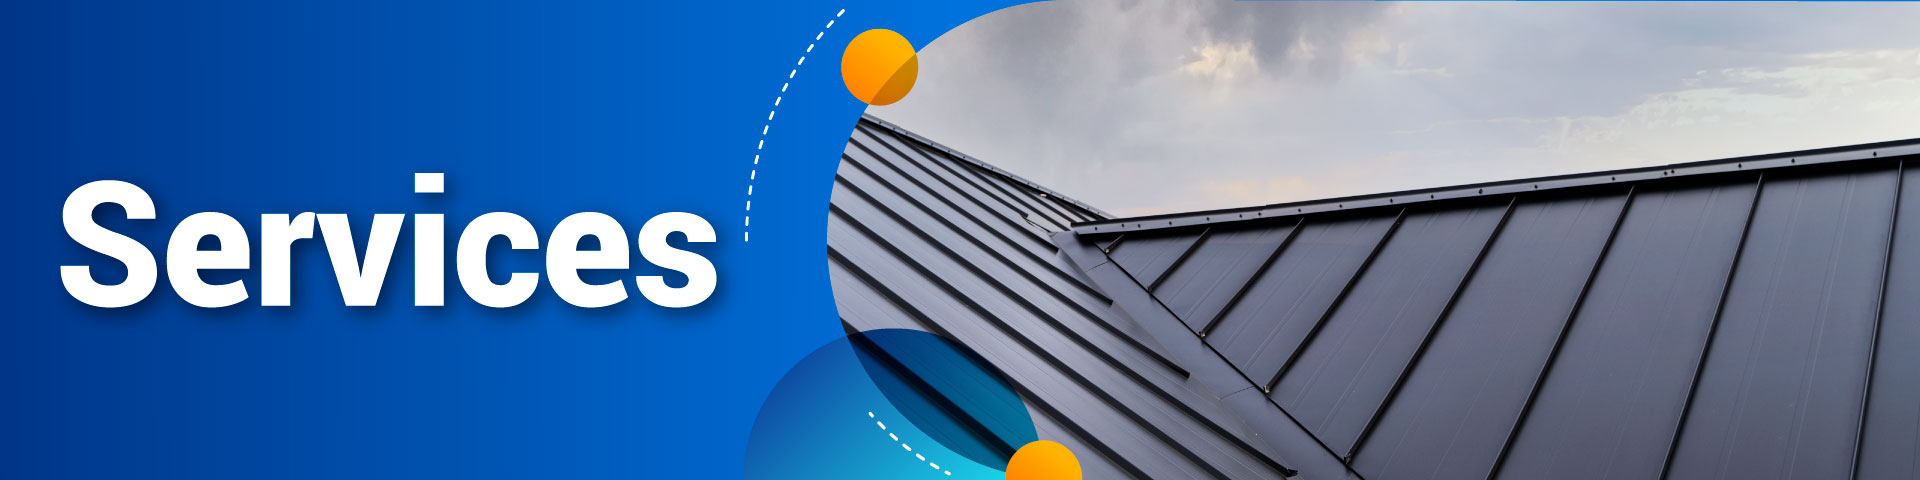
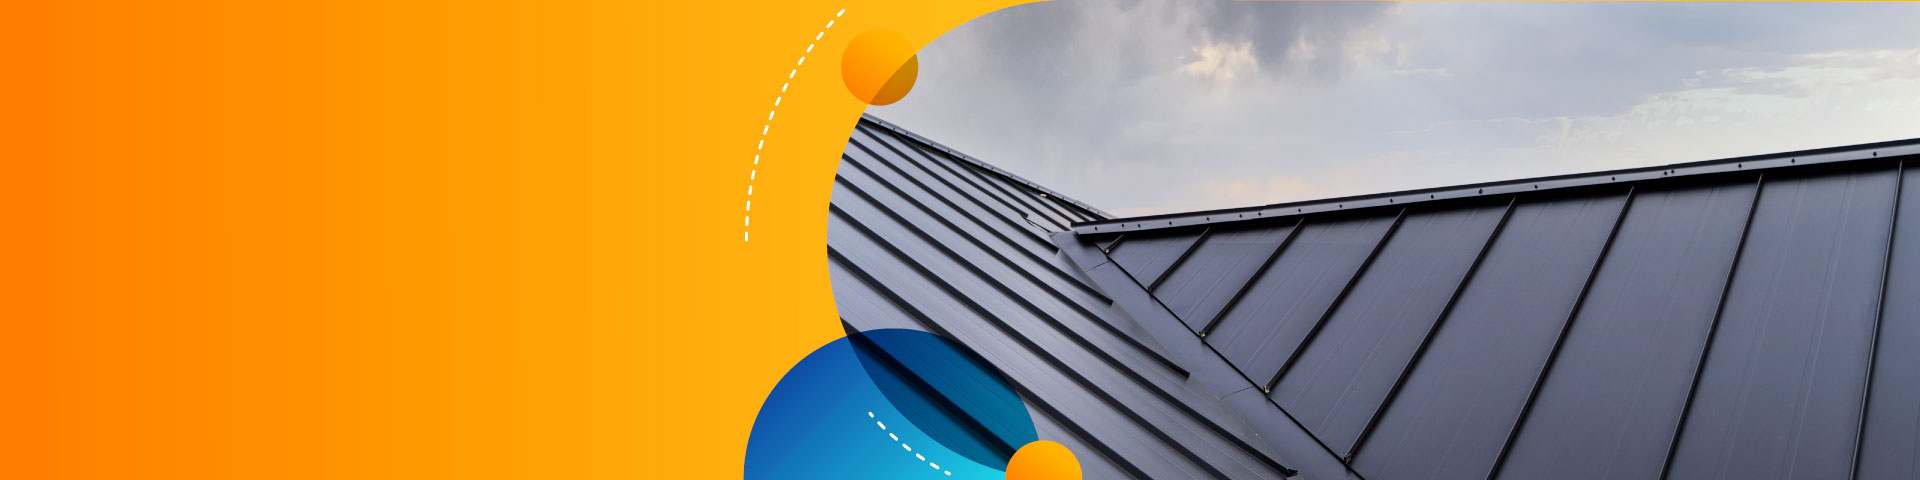
changes

diff --git a/style.css b/style.css
@@ -430,14 +430,34 @@ footer li a:hover {
 
 #service-hero {
     background-image: url(./images/service.jpg);
-    /* background-size: cover; */
+    background-size: cover;
     background-repeat: no-repeat;
-    /* background-position: center; */
+    background-position: center;
     width: 100%;
-    height: 100vh;
+    height: 500px;
     padding: 0 10%;
 }
 
+.service-hero-text{
+        height: 30vh;
+        display: flex;
+        /* justify-content: center; */
+        align-items: center;
+        text-shadow: 0px 2px 9px #0101017d;
+        color: #F5F5F5;
+        /* left: 0; */
+}
+
+.service-hero-text h1{
+    font-weight: 900;
+    font-size: 60px;
+    padding: 0 1%;
+}
+
+.our-service{
+    margin-block: 50px;
+    padding: 0 10%;
+}
 @media only screen and (max-width: 900px) {
     #hero {
         display: block;

diff --git a/service.html b/service.html
@@ -125,10 +125,20 @@
             </div>
           </div>
         </nav>
-        
+        <div class="service-hero-text">
+            <h1>Services</h1>
+          </div>
       </div>
 
 
+      <section>
+        <div class="our-service row">
+            <div class="col-md-8">
+                <h4>Our team possesses extensive expertise and experience in all aspects of the roofing trade.
+                </h4>
+            </div>
+        </div>
+      </section>
       <section>
         <div class="call_to_action" data-aos="zoom-out-right">
             <div class="jumbotron">
